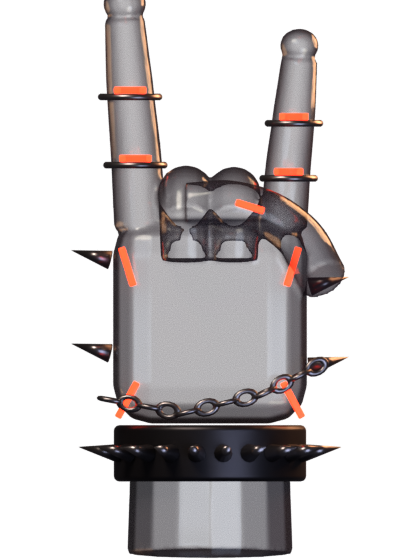
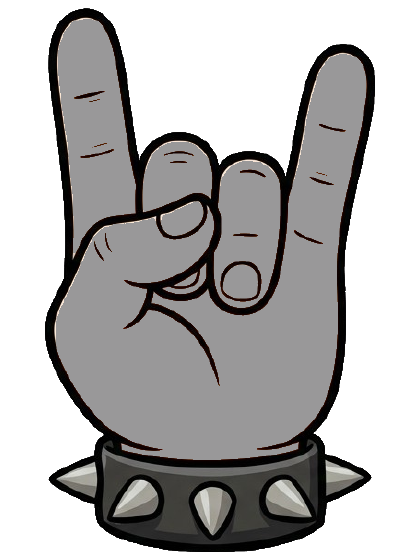
Jauge de vie : la main cornue du dessin d'Ulysse, sans couleur de peau, sert de réservoir
- art/hud/main_cornes.py : damier du JPG retiré (remplissage depuis les bords), peau retirée (verre sombre),
  contour, plis et bracelet gardés ; masque = silhouette de la main, où monte le liquide rouge
- build_hud.py ne régénère plus l'ancienne main de verre par défaut

diff --git a/art/hud/main_cornes.py b/art/hud/main_cornes.py
@@ -1,0 +1,123 @@
+# Jauge de vie du HUD : la main cornue du dessin d'Ulysse (art/hud/main_cornes_dessin.jpg, 6 oct. 2026), sans la couleur
+# de peau, devient le réservoir de la vie (remplace la main de verre rendue par build_hud.py).
+#
+# Usage (sans interface) :
+#   blender --background --factory-startup --python art/hud/main_cornes.py
+#       -> assets/ui/main_vie.png : le dessin (contour noir, plis des doigts, bracelet à pointes), l'intérieur de la main
+#          en verre sombre translucide : le jeu dessine le liquide dessous (scripts/ui/reservoir.gd) ;
+#       -> assets/ui/main_vie_masque.png : la silhouette de la main (blanc), où monte le liquide.
+#
+# Le damier du fond est peint dans le JPG (pas de vraie transparence) : il est retiré par remplissage depuis les bords
+# (pixels clairs et gris), arrêté par le contour noir. La peau (pixels orangés) est retirée ; les plis restent.
+import bpy, os
+import numpy as np
+
+HERE = os.path.dirname(os.path.abspath(__file__))
+ROOT = os.path.abspath(os.path.join(HERE, "..", ".."))
+SRC = os.path.join(HERE, "main_cornes_dessin.jpg")
+OUT = os.path.join(ROOT, "assets", "ui")
+SIZE = (420, 560)  # taille des images du réservoir (le HUD l'affiche en 150 × 200)
+GLASS = (0.05, 0.04, 0.05, 0.42)  # verre sombre à la place de la peau (on voit le liquide à travers)
+
+
+def load(path):
+    img = bpy.data.images.load(path)
+    w, h = img.size
+    px = np.array(img.pixels[:], dtype=np.float32).reshape(h, w, 4)
+    return px[::-1].copy()  # Blender range les lignes de bas en haut
+
+
+def save(rgba, name):
+    h, w = rgba.shape[:2]
+    img = bpy.data.images.new(name, w, h, alpha=True)
+    img.pixels[:] = rgba[::-1].reshape(-1).tolist()
+    img.filepath_raw = os.path.join(OUT, name + ".png")
+    img.file_format = "PNG"
+    img.save()
+
+
+def dilate(m, n=1):
+    for _ in range(n):
+        d = m.copy()
+        d[1:] |= m[:-1]
+        d[:-1] |= m[1:]
+        d[:, 1:] |= m[:, :-1]
+        d[:, :-1] |= m[:, 1:]
+        m = d
+    return m
+
+
+def erode(m, n=1):
+    return ~dilate(~m, n)
+
+
+px = load(SRC)
+rgb = px[..., :3]
+lum = rgb.mean(axis=2)
+sat = rgb.max(axis=2) - rgb.min(axis=2)
+# Fond : damier clair et gris, relié aux bords de l'image.
+bg_like = (lum > 0.5) & (sat < 0.1)
+bg = np.zeros_like(bg_like)
+bg[0, :] = bg_like[0, :]
+bg[-1, :] = bg_like[-1, :]
+bg[:, 0] = bg_like[:, 0]
+bg[:, -1] = bg_like[:, -1]
+while True:
+    grown = dilate(bg) & bg_like
+    if grown.sum() == bg.sum():
+        break
+    bg = grown
+# Peau : orangée (rouge > vert > bleu, assez saturée) et pas trop sombre.
+r, g, b = rgb[..., 0], rgb[..., 1], rgb[..., 2]
+skin = (~bg) & (r > 0.45) & (r - b > 0.15) & (r >= g) & (g >= b)
+# Silhouette de la main (masque) : la peau, plis compris (fermeture morphologique), sans déborder du contour.
+inside = erode(dilate(skin, 6), 6) & ~bg
+inside &= ~(lum < 0.12)  # le contour noir n'en fait pas partie
+inside = erode(dilate(inside, 2), 2)
+# Le dessin : contour, plis, bracelet ; la peau devient du verre sombre ; le fond est transparent.
+art = px.copy()
+art[..., 3] = 1.0
+art[skin] = GLASS
+art[bg] = (0.0, 0.0, 0.0, 0.0)
+# Liseré du fond (anticrénelage du contour sur le damier) : la transparence suit la noirceur du pixel.
+fringe = dilate(bg, 2) & ~bg & ~skin
+alpha = np.clip((0.8 - lum) / 0.45, 0.0, 1.0)
+art[fringe, 3] = alpha[fringe]
+art[fringe, :3] = rgb[fringe] * 0.3
+# Cadrage : la main entière, centrée dans une image de 420 × 560.
+ys, xs = np.nonzero(art[..., 3] > 0.05)
+y0, y1, x0, x1 = ys.min(), ys.max() + 1, xs.min(), xs.max() + 1
+crop = art[y0:y1, x0:x1]
+mcrop = inside[y0:y1, x0:x1].astype(np.float32)
+scale = min((SIZE[0] - 16) / crop.shape[1], (SIZE[1] - 16) / crop.shape[0])
+nw, nh = int(crop.shape[1] * scale), int(crop.shape[0] * scale)
+
+
+def resize(a, w, h):
+    # Rééchantillonnage par moyenne de zones (réduction).
+    ys = np.linspace(0, a.shape[0], h + 1).astype(int)
+    xs = np.linspace(0, a.shape[1], w + 1).astype(int)
+    out = np.zeros((h, w) + a.shape[2:], dtype=np.float32)
+    for j in range(h):
+        row = a[ys[j]:max(ys[j + 1], ys[j] + 1)]
+        for i in range(w):
+            out[j, i] = row[:, xs[i]:max(xs[i + 1], xs[i] + 1)].reshape(-1, *a.shape[2:]).mean(axis=0)
+    return out
+
+
+# Couleurs prémultipliées pendant la réduction (pas de halo sombre sur les bords transparents).
+pm = crop.copy()
+pm[..., :3] *= pm[..., 3:4]
+small = resize(pm, nw, nh)
+a = small[..., 3:4]
+small[..., :3] = np.where(a > 1e-4, small[..., :3] / np.maximum(a, 1e-4), 0.0)
+small_mask = resize(mcrop, nw, nh)
+out = np.zeros((SIZE[1], SIZE[0], 4), dtype=np.float32)
+ox, oy = (SIZE[0] - nw) // 2, (SIZE[1] - nh) // 2
+out[oy:oy + nh, ox:ox + nw] = small
+mask = np.zeros((SIZE[1], SIZE[0], 4), dtype=np.float32)
+mask[oy:oy + nh, ox:ox + nw, :3] = 1.0
+mask[oy:oy + nh, ox:ox + nw, 3] = np.clip(small_mask, 0.0, 1.0)
+save(out, "main_vie")
+save(mask, "main_vie_masque")
+print("MAIN_CORNES %dx%d -> %dx%d (peau %d px, masque %d px)" % (crop.shape[1], crop.shape[0], nw, nh, skin.sum(), inside.sum()))

diff --git a/art/hud/build_hud.py b/art/hud/build_hud.py
@@ -5,7 +5,8 @@
 #   blender --background --factory-startup --python art/hud/build_hud.py -- [element...]
 #       -> assets/ui/<element>.png (fond transparent) ; pour les réservoirs, aussi <element>_masque.png : la zone où le
 #          jeu dessine le liquide (blanc), sous l'image : la main et l'enceinte sont des récipients de verre fumé.
-#   éléments : main_vie, enceinte_db, barre_sorts, case, cadre, bouton (tous par défaut)
+#   éléments : enceinte_db, barre_sorts, case, cadre, bouton (tous par défaut) ; main_vie (l'ancienne main de verre,
+#   seulement si on la demande : la jauge de vie vient maintenant du dessin d'Ulysse, voir art/hud/main_cornes.py)
 #
 # Repère : X à droite, Z en haut, la caméra (orthographique) regarde vers +Y ; on modèle face à elle (côté -Y).
 import bpy, bmesh, math, os, sys, random
@@ -566,7 +567,7 @@ BUILDERS = {"main_vie": main_vie, "enceinte_db": enceinte_db, "barre_sorts": bar
 
 def main():
     args = sys.argv[sys.argv.index("--") + 1:] if "--" in sys.argv else []
-    for n in (args or list(BUILDERS)):
+    for n in (args or [b for b in BUILDERS if b != "main_vie"]):
         BUILDERS[n]()
 
 

diff --git a/docs/HUD.md b/docs/HUD.md
@@ -13,7 +13,7 @@ blender --background --factory-startup --python art/hud/build_hud.py -- [element
 
 | Élément | Rôle |
 |---|---|
-| `main_vie` (+ `_masque`) | main du signe des cornes toute en verre fumé = **réservoir de vie** (bas à gauche) ; runes, bagues, chaînes et bracelet à pointes par-dessus |
+| `main_vie` (+ `_masque`) | la main cornue du dessin d'Ulysse (`art/hud/main_cornes_dessin.jpg`), sans la couleur de peau = **réservoir de vie** (bas à gauche) : le liquide rouge remplit la main, sous le contour noir, les plis et le bracelet à pointes ; la partie vide est en verre sombre. Fabriquée par `art/hud/main_cornes.py` (fond en damier retiré, peau retirée, masque = silhouette de la main) |
 | `enceinte_db` (+ `_masque`) | baffle de scène tout en verre fumé = **réservoir de décibels** (bas à droite) ; coins, cerclages, boutons et pointes de métal |
 | `barre_sorts` | cadre de la barre de sorts : crânes des squelettes ennemis (tête découpée dans art/pnj/squelette.blend), cornu au centre, pointes, chaînes pendantes |
 | `case` | cadre de fer d'une case de sort |

diff --git a/docs/ROADMAP.md b/docs/ROADMAP.md
@@ -290,6 +290,8 @@
 - [x] Boss : -10 % de dégâts reçus, +20 % de PV, attaques 15 % plus rapides
 - [x] PNJ basiques (clients) : seulement leur nom, police plus petite
 - [x] Inventaire façon MMO : petites cases, icônes carrées, bulle d'info sous le curseur, héros au centre entouré de ses 12 emplacements
+- [x] Jauge de vie : la main cornue du dessin d'Ulysse, sans couleur de peau, sert de réservoir (le liquide rouge la remplit)
+- [x] Barre de sorts : fond noir derrière les cases ; elle ne passe plus par-dessus les fenêtres
 
 ## v0.2 — « Ça ressemble à un vrai jeu »
 - [ ] Modèles 3D low-poly du héros (crinière, manteau, luth), des squelettes, de Gloubah, de Plumeau
